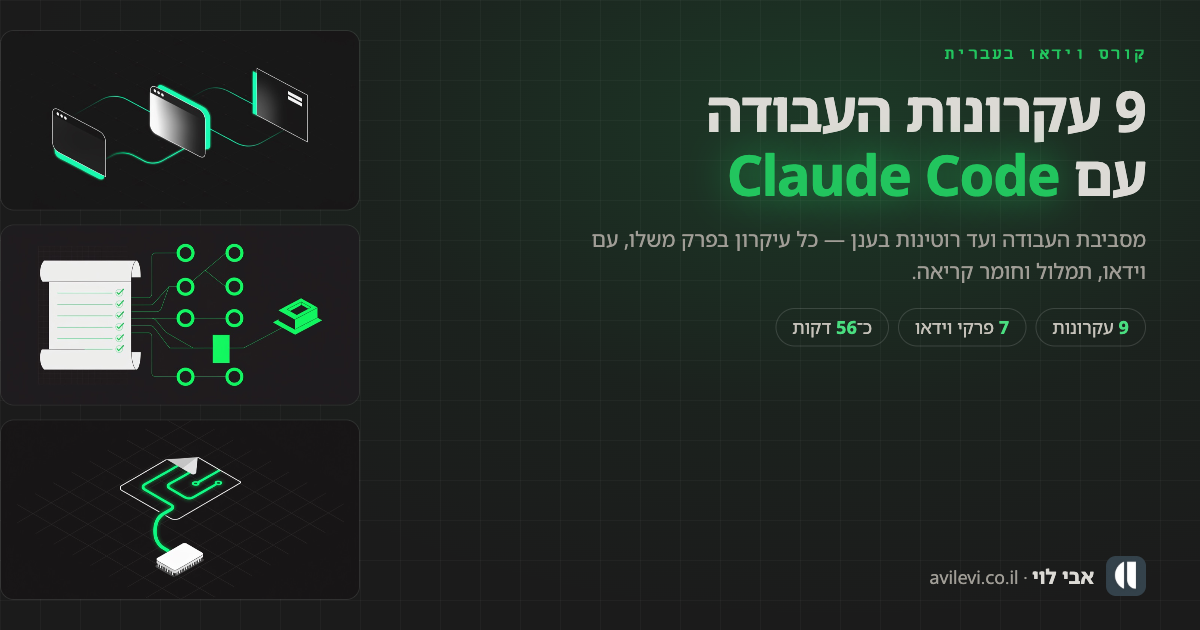
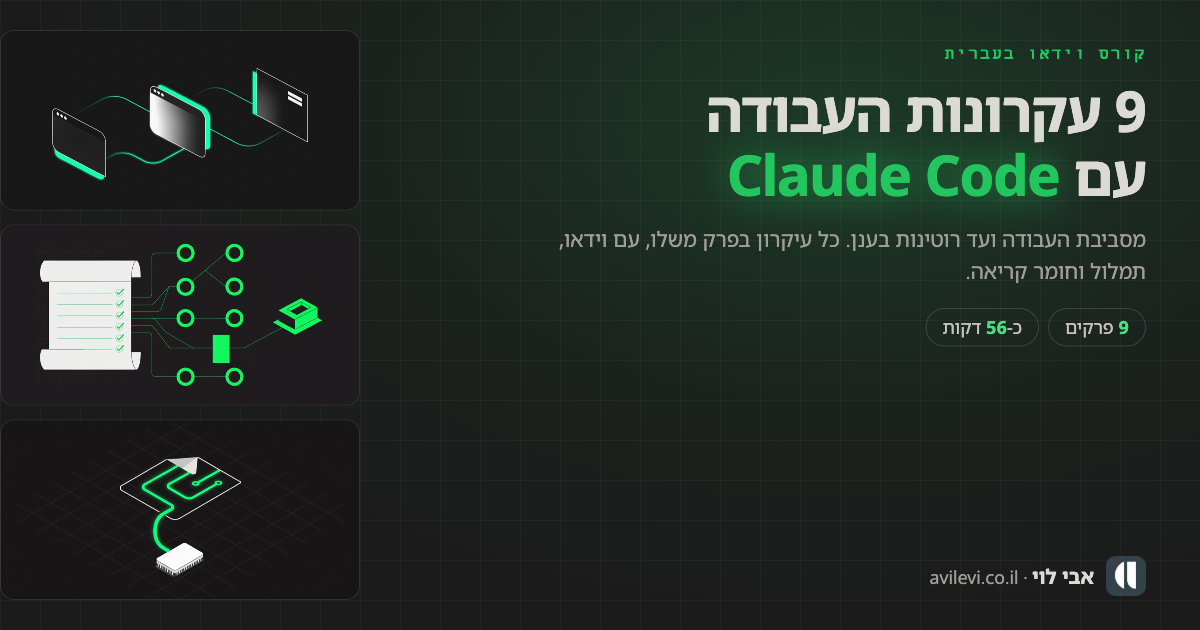
New welcome copy; no em dashes anywhere on the site
- The welcome paragraph is replaced with Avi's text: the course surveys nine
  principles with demos and plain explanations, one chapter each, so that
  someone who has never written code learns what they need to start
  building their project.
- The line under it reads "9 פרקים, כ-56 דקות", with the minutes still
  derived from the video durations. The share card says the same.
- Every em and en dash is gone from what ships: the share titles and alt
  text, three sub-chapter titles (now "Opus: …", "Fable: …", "חלון ההקשר:
  …"), the share card sentence, the help window's "0-9" range, the README
  and a stylesheet comment. A sweep of every rendered string, attribute and
  chapter view in the browser finds none left.

Changed region(s): [[0.6475, 0.5127, 0.925, 0.5429], [0.4625, 0.3619, 0.7092, 0.3921], [0.7708, 0.4222, 0.9558, 0.4524]]

diff --git a/index.html b/index.html
@@ -12,21 +12,21 @@
 <meta property="og:site_name" content="אבי לוי">
 <meta property="og:locale" content="he_IL">
 <meta property="og:url" content="https://booya1986.github.io/claude-code-course/">
-<meta property="og:title" content="9 עקרונות העבודה עם Claude Code — קורס וידאו בעברית">
+<meta property="og:title" content="9 עקרונות העבודה עם Claude Code: קורס וידאו בעברית">
 <meta property="og:description" content="מסביבת העבודה ועד רוטינות בענן. כל עיקרון בפרק משלו, עם וידאו, תמלול, סימניות, הערות וחומר קריאה. גם למי שמעולם לא כתב שורת קוד.">
 <meta property="og:image" content="https://booya1986.github.io/claude-code-course/imgs/og.png">
 <meta property="og:image:secure_url" content="https://booya1986.github.io/claude-code-course/imgs/og.png">
 <meta property="og:image:type" content="image/png">
 <meta property="og:image:width" content="1200">
 <meta property="og:image:height" content="630">
-<meta property="og:image:alt" content="9 עקרונות העבודה עם Claude Code — קורס וידאו בעברית מאת אבי לוי">
+<meta property="og:image:alt" content="9 עקרונות העבודה עם Claude Code: קורס וידאו בעברית מאת אבי לוי">
 
 <meta name="twitter:card" content="summary_large_image">
-<meta name="twitter:title" content="9 עקרונות העבודה עם Claude Code — קורס וידאו בעברית">
+<meta name="twitter:title" content="9 עקרונות העבודה עם Claude Code: קורס וידאו בעברית">
 <meta name="twitter:description" content="מסביבת העבודה ועד רוטינות בענן. כל עיקרון בפרק משלו, עם וידאו, תמלול, סימניות, הערות וחומר קריאה.">
 <meta name="twitter:image" content="https://booya1986.github.io/claude-code-course/imgs/og.png">
 <meta name="theme-color" content="#1b1b1b">
-<link rel="stylesheet" href="assets/course.css?v=20260911d">
+<link rel="stylesheet" href="assets/course.css?v=20260911e">
 </head>
 <body>
 <a class="skip" href="#stage">דלגו לנגן</a>
@@ -80,7 +80,7 @@
           </button>
         </div>
         <h1>9 עקרונות העבודה עם <mark>Claude Code</mark></h1>
-        <p class="w-lead">הקורס עובר על תשעת העקרונות של עבודה נכונה עם <strong>Claude Code</strong>, סוכן הקוד של Anthropic, בעברית פשוטה וברורה. כל עיקרון מקבל פרק משלו — וידאו, פרקי משנה, תמלול, סימניות, הערות וחומר קריאה — וגם מי שמעולם לא כתב שורת קוד יכול לעבור אותו מההתחלה עד הסוף.</p>
+        <p class="w-lead">הקורס סוקר תשעה עקרונות עבודה עם <strong>Claude Code</strong>, כולל הדגמות והסברים פשוטים ובגובה העיניים. כל עיקרון מקבל פרק משלו, ככה שגם אם אף פעם לא כתבתם קוד, תלמדו כל מה שאתם צריכים כדי להתחיל לעבוד עם קלוד קוד ולייצר את הפרויקט שרציתם.</p>
         <p class="w-meta" id="w-meta"></p>
         <div class="w-cta">
           <button class="btn pri" id="w-primary"></button>
@@ -250,7 +250,7 @@
     <kbd>B</kbd><span>סימנייה ברגע הנוכחי, בלי לעצור את הסרטון</span>
     <kbd>P / N</kbd><span>פרק משנה קודם / הבא</span>
     <kbd>&lt; &gt;</kbd><span>האטה / האצה</span>
-    <kbd>0 – 9</kbd><span>קפיצה ל-0%–90%</span>
+    <kbd>0-9</kbd><span>קפיצה ל-0% עד 90% מהסרטון</span>
     <kbd>?</kbd><span>החלון הזה</span>
     <kbd>Esc</kbd><span>סגירת החלון</span>
   </div>
@@ -258,9 +258,9 @@
 </dialog>
 
 
-<script src="data/course.js?v=20260911d"></script>
-<script src="data/transcripts.js?v=20260911d"></script>
-<script src="data/reading.js?v=20260911d"></script>
-<script src="assets/course.js?v=20260911d"></script>
+<script src="data/course.js?v=20260911e"></script>
+<script src="data/transcripts.js?v=20260911e"></script>
+<script src="data/reading.js?v=20260911e"></script>
+<script src="assets/course.js?v=20260911e"></script>
 </body>
 </html>

diff --git a/data/course.js b/data/course.js
@@ -44,9 +44,9 @@ window.COURSE = {
         { t: 0,     title: "איפה בוחרים מודל" },
         { t: 44.1,  title: "המודלים משתנים עם הזמן" },
         { t: 70,    title: "Haiku ו-Sonnet" },
-        { t: 114.8, title: "Opus — מודל של חשיבה" },
+        { t: 114.8, title: "Opus: מודל של חשיבה" },
         { t: 147.5, title: "Fable, ואחיו Mythos" },
-        { t: 199,   title: "Fable — המודל לתכנון" },
+        { t: 199,   title: "Fable: המודל לתכנון" },
         { t: 221,   title: "מהי רמת מאמץ (Effort)" },
         { t: 250.4, title: "מתי מאמץ גבוה לא שווה" },
         { t: 276.5, title: "כלל אצבע: שלב התכנון" },
@@ -91,7 +91,7 @@ window.COURSE = {
       markers: [
         { t: 0,     title: "מה זה טוקן" },
         { t: 15.6,  title: "כמה טוקנים יש במילה אחת" },
-        { t: 29.2,  title: "חלון ההקשר — הזיכרון לטווח קצר" },
+        { t: 29.2,  title: "חלון ההקשר: הזיכרון לטווח קצר" },
         { t: 45.6,  title: "קו ה-70% ואיכות התשובות" },
         { t: 60.5,  title: "הפקודה context/ בפועל" },
         { t: 80.6,  title: "המכסה שמתאפסת כל חמש שעות" },

diff --git a/og.html b/og.html
@@ -49,8 +49,8 @@
     <div>
     <div class="lbl">קורס וידאו בעברית</div>
     <h1>9 עקרונות העבודה<br>עם <mark>Claude Code</mark></h1>
-    <p>מסביבת העבודה ועד רוטינות בענן — כל עיקרון בפרק משלו, עם וידאו, תמלול וחומר קריאה.</p>
-    <div class="chips"><span><b>9</b> עקרונות</span><span><b>7</b> פרקי וידאו</span><span>כ־<b>56</b> דקות</span></div>
+    <p>מסביבת העבודה ועד רוטינות בענן. כל עיקרון בפרק משלו, עם וידאו, תמלול וחומר קריאה.</p>
+    <div class="chips"><span><b>9</b> פרקים</span><span>כ-<b>56</b> דקות</span></div>
     </div>
     <div class="foot"><img src="imgs/logo.png" alt=""><div><b>אבי לוי</b> <span>· avilevi.co.il</span></div></div>
   </div>

diff --git a/assets/course.js b/assets/course.js
@@ -201,7 +201,7 @@
   function renderWelcome() {
     var withVideo = C.chapters.filter(function (c) { return c.video; });
     var secs = withVideo.reduce(function (a, c) { return a + (c.duration || 0); }, 0);
-    $('w-meta').textContent = C.chapters.length + ' עקרונות · ' + withVideo.length + ' פרקי וידאו · כ־' + Math.round(secs / 60) + ' דקות צפייה';
+    $('w-meta').textContent = C.chapters.length + ' פרקים, כ-' + Math.round(secs / 60) + ' דקות';
 
     var g = $('w-grid');
     g.textContent = '';

diff --git a/assets/course.css b/assets/course.css
@@ -1,4 +1,4 @@
-/* Self-hosted brand faces — ported from Avi-s-Blog/src/styles/tokens.css so the page
+/* Self-hosted brand faces, ported from Avi-s-Blog/src/styles/tokens.css so the page
    keeps its typographic voice offline and on file://. */
 @font-face {
   font-family: 'Noto Sans Hebrew';

diff --git a/README.md b/README.md
@@ -4,7 +4,7 @@
 
 # 9 עקרונות העבודה עם Claude Code
 
-**סביבת קורס וידאו בעברית — מלאה, RTL, ורצה מקובץ אחד.**
+**סביבת קורס וידאו בעברית: מלאה, RTL, ורצה מקובץ אחד.**
 
 [![Pages](https://img.shields.io/badge/live-GitHub%20Pages-22C55E?style=flat-square)](#-הקישור-החי)
 [![Hebrew](https://img.shields.io/badge/שפה-עברית%20RTL-22C55E?style=flat-square)](#)
@@ -47,7 +47,7 @@
 | `←` `→` | 5 שניות | | `F` | מסך מלא |
 | `↑` `↓` | עוצמת קול | | `B` | סימנייה ברגע הנוכחי |
 | `P` / `N` | פרק משנה קודם / הבא | | `<` `>` | האטה / האצה |
-| `0`–`9` | קפיצה ל-0%–90% | | `?` | רשימת הקיצורים |
+| `0`-`9` | קפיצה ל-0% עד 90% | | `?` | רשימת הקיצורים |
 
 ## הפעלה מקומית
 
@@ -55,13 +55,13 @@
 python3 -m http.server 8000
 ```
 
-ואז `http://localhost:8000`. אפשר גם פשוט לפתוח את `index.html` בדפדפן — הכל עובד גם מ-`file://`, כולל הגופנים (הם מקומיים).
+ואז `http://localhost:8000`. אפשר גם פשוט לפתוח את `index.html` בדפדפן. הכל עובד גם מ-`file://`, כולל הגופנים (הם מקומיים).
 
 ## מבנה
 
 ```
 index.html            סביבת הקורס
-principles.html       המדריך הכתוב המלא — המקור לחומר הקריאה שבתוך הפרקים
+principles.html       המדריך הכתוב המלא, המקור לחומר הקריאה שבתוך הפרקים
 assets/
   course.css          כל העיצוב
   course.js           כל הלוגיקה (וניל, בלי תלויות)
@@ -78,19 +78,19 @@ web-media/            הווידאו (720p, מותאם לאינטרנט)
 
 1. שימו את הווידאו ב-`web-media/chN.mp4`.
 2. ב-`data/course.js`, הוסיפו לפרק `video`, `duration`, `poster` ורשימת `markers` (זמן וכותרת לכל נושא).
-3. אם יש תמלול, הוסיפו את המערך תחת `N` ב-`data/transcripts.js` בפורמט `{s, e, t}` — שנייה התחלה, שנייה סיום, טקסט.
+3. אם יש תמלול, הוסיפו את המערך תחת `N` ב-`data/transcripts.js` בפורמט `{s, e, t}`: שנייה התחלה, שנייה סיום, טקסט.
 
 הפרקים שאין להם `video` מוצגים אוטומטית כ"בהפקה", עם חומר הקריאה שלהם כבר זמין.
 
 ## עיצוב
 
 הפלטה, הגופנים והרקע (הזוהר הירוק ורשת הקווים הנעה) לקוחים ישירות ממערכת העיצוב של
-[הבלוג של אבי לוי](https://www.avilevi.co.il) — `#1b1b1b` על `#22C55E`, Noto Sans Hebrew,
+[הבלוג של אבי לוי](https://www.avilevi.co.il): `#1b1b1b` על `#22C55E`, Noto Sans Hebrew,
 ו-`GridBackground` בהמרה מדויקת. הדף כולו RTL עם מאפיינים לוגיים, ואין בו גלילה אופקית בשום רוחב.
 
 ## רישיון
 
-התוכן — הווידאו, התמלולים והטקסטים — הוא של אבי לוי, לשימוש אישי של הלומדים.
+התוכן (הווידאו, התמלולים והטקסטים) הוא של אבי לוי, לשימוש אישי של הלומדים.
 הקוד של סביבת הקורס חופשי לשימוש.
 
 ---
